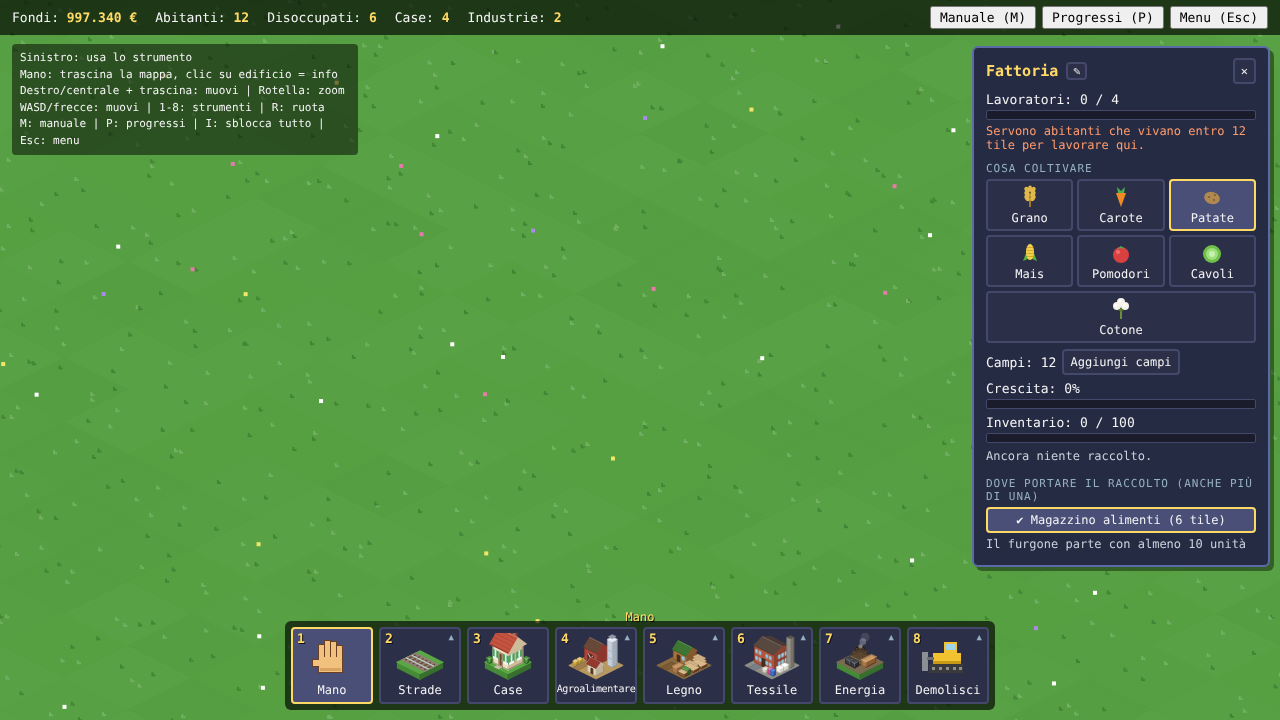
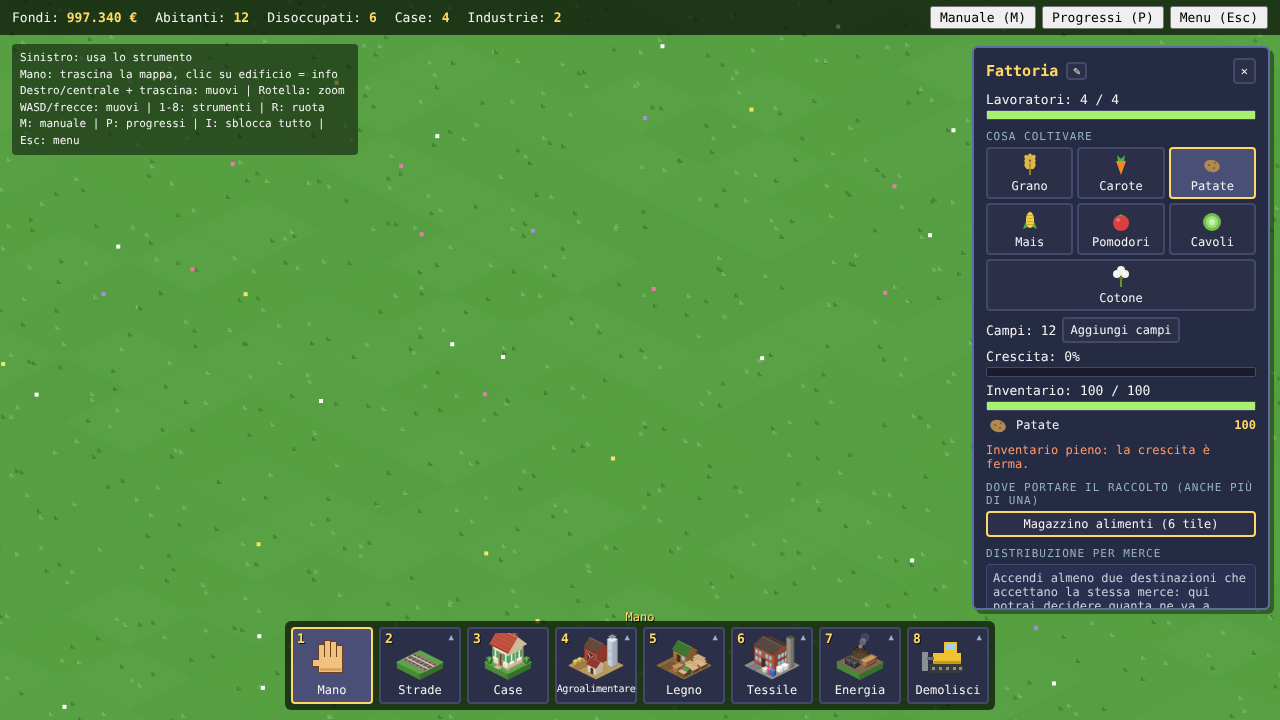
Spagnolo: diésel al posto di gasóleo; la sezione Distribuzione per merce si vede sempre con la spiegazione
Claude-Session: https://claude.ai/code/session_01EPii4HtPudbMHHXMoA5j75

Changed region(s): [[0.75, 0.1528, 1.0, 0.8556]]

diff --git a/js/i18n-es.js b/js/i18n-es.js
@@ -57,7 +57,7 @@ DICT.es = {
   'Tronchi': 'Troncos', 'Legna da ardere': 'Leña', 'Assi di legno': 'Tablas de madera', 'Travature': 'Vigas', 'Pannelli di legno': 'Paneles de madera',
   'Tavoli': 'Mesas', 'Sedie': 'Sillas', 'Armadi': 'Armarios', 'Letti': 'Camas', 'Mobili da cucina': 'Muebles de cocina',
   'Filati': 'Hilo', 'Tessuto': 'Tela', 'Stoffe lavorate': 'Tejido elaborado', 'Magliette': 'Camisetas', 'Pantaloni': 'Pantalones', 'Giacche': 'Chaquetas', 'Scarpe': 'Zapatos', 'Cappotti': 'Abrigos',
-  'Carbone': 'Carbón', 'Petrolio grezzo': 'Petróleo crudo', 'Benzina': 'Gasolina', 'Gasolio': 'Gasóleo',
+  'Carbone': 'Carbón', 'Petrolio grezzo': 'Petróleo crudo', 'Benzina': 'Gasolina', 'Gasolio': 'Diésel',
   'Mucche': 'Vacas', 'Pecore': 'Ovejas',
   // desbloqueos
   'Nuove colture': 'Nuevos cultivos', 'Mais, pomodori e cavoli per le fattorie.': 'Maíz, tomates y coles para las granjas.',
@@ -107,6 +107,7 @@ DICT.es = {
   // panel del edificio
   'Dove portare il raccolto (anche più di una)': 'Adónde llevar la cosecha (puede ser más de uno)', 'Uscita: dove mandare le scorte (anche più di una)': 'Salida: adónde enviar las existencias (puede ser más de uno)',
   'Dove mandare la merce (anche più di una)': 'Adónde enviar la mercancía (puede ser más de uno)', ' - nessuna strada': ' - sin carretera', 'Costruisci {list}.': 'Construye: {list}.',
+  'Accendi almeno due destinazioni che accettano la stessa merce: qui potrai decidere quanta ne va a ognuna (es. 50% e 50%, o 100% a una sola).': 'Activa al menos dos destinos que acepten la misma mercancía: aquí podrás decidir cuánta va a cada uno (p. ej. 50% y 50%, o 100% a uno solo).',
   'Distribuzione per merce': 'Distribución por mercancía', 'Personalizzata': 'Personalizada', 'Automatica': 'Automática',
   'Clic per tornare alla distribuzione automatica': 'Clic para volver a la distribución automática', 'Clic per scegliere quanto mandare a ogni destinazione': 'Clic para elegir cuánto enviar a cada destino',
   'Questa merce non va da nessuna parte: metti almeno una percentuale.': 'Esta mercancía no va a ninguna parte: pon al menos un porcentaje.', 'Va alla destinazione che ne ha bisogno.': 'Va al destino que la necesita.',
@@ -237,8 +238,8 @@ TOOL_TEXT.es = {
   oilWell: { label: 'Pozo petrolífero', desc: 'Extrae petróleo crudo de un yacimiento en tierra (con la herramienta en la mano ves las zonas oscuras donde hay).' },
   oilPlatform: { label: 'Plataforma petrolífera (2x2)', desc: 'Se construye en el agua sobre un yacimiento. El personal vive a bordo; un barco lleva el petróleo al puerto.' },
   port: { label: 'Puerto (2x2)', desc: 'Puerto con almacén portuario para todas las mercancías: delante la carretera, detrás el agua (R para girarlo). Los barcos llevan la mercancía a otros puertos (petroleros para petróleo y combustibles, portacontenedores para el resto), las furgonetas a almacenes, fábricas y tiendas.' },
-  refinery: { label: 'Refinería de petróleo (2x2)', desc: 'Transforma el petróleo crudo en gasolina y gasóleo.' },
-  gasStation: { label: 'Gasolinera', desc: 'Vende gasolina y gasóleo a los habitantes cercanos: cobras impuestos en cada venta.' },
+  refinery: { label: 'Refinería de petróleo (2x2)', desc: 'Transforma el petróleo crudo en gasolina y diésel.' },
+  gasStation: { label: 'Gasolinera', desc: 'Vende gasolina y diésel a los habitantes cercanos: cobras impuestos en cada venta.' },
   demolish: { label: 'Demoler', desc: 'Quita edificios, carreteras, puentes, túneles, campos y árboles. Al arrastrar solo quita cosas del mismo tipo que el primer clic.' },
   raise: { label: 'Subir terreno', desc: 'Sube el terreno un nivel (solo donde no hay carreteras ni edificios).' },
   lower: { label: 'Bajar terreno', desc: 'Baja el terreno un nivel; a altura 0 se convierte en agua.' },

diff --git a/js/i18n-en.js b/js/i18n-en.js
@@ -107,6 +107,7 @@ DICT.en = {
   // building panel
   'Dove portare il raccolto (anche più di una)': 'Where to take the harvest (more than one is fine)', 'Uscita: dove mandare le scorte (anche più di una)': 'Output: where to send the stock (more than one is fine)',
   'Dove mandare la merce (anche più di una)': 'Where to send the goods (more than one is fine)', ' - nessuna strada': ' - no road', 'Costruisci {list}.': 'Build: {list}.',
+  'Accendi almeno due destinazioni che accettano la stessa merce: qui potrai decidere quanta ne va a ognuna (es. 50% e 50%, o 100% a una sola).': 'Turn on at least two destinations that accept the same good: here you can decide how much goes to each one (e.g. 50% and 50%, or 100% to just one).',
   'Distribuzione per merce': 'Distribution per good', 'Personalizzata': 'Custom', 'Automatica': 'Automatic',
   'Clic per tornare alla distribuzione automatica': 'Click to go back to automatic distribution', 'Clic per scegliere quanto mandare a ogni destinazione': 'Click to choose how much to send to each destination',
   'Questa merce non va da nessuna parte: metti almeno una percentuale.': 'This good goes nowhere: set at least one percentage.', 'Va alla destinazione che ne ha bisogno.': 'It goes to the destination that needs it.',

diff --git a/js/panel.js b/js/panel.js
@@ -129,8 +129,11 @@ function goodsOut(b) {
 function splitSection(box, b) {
   const rows = goodsOut(b).map(g => ({ g, ws: b.dests.map(id => game.buildings.get(id)).filter(w => w && takesGood(w, g)) }))
     .filter(r => r.ws.length >= 2);
-  if (!rows.length) return;
   box.appendChild(el('div', 'plabel', TR('Distribuzione per merce')));
+  if (!rows.length) {   // la sezione si vede sempre, con la spiegazione di come accenderla
+    box.appendChild(el('div', 'pnote psplit', TR('Accendi almeno due destinazioni che accettano la stessa merce: qui potrai decidere quanta ne va a ognuna (es. 50% e 50%, o 100% a una sola).')));
+    return;
+  }
   for (const { g, ws } of rows) {
     const sp = b.split && b.split[g];
     const card = el('div', 'psplit');
